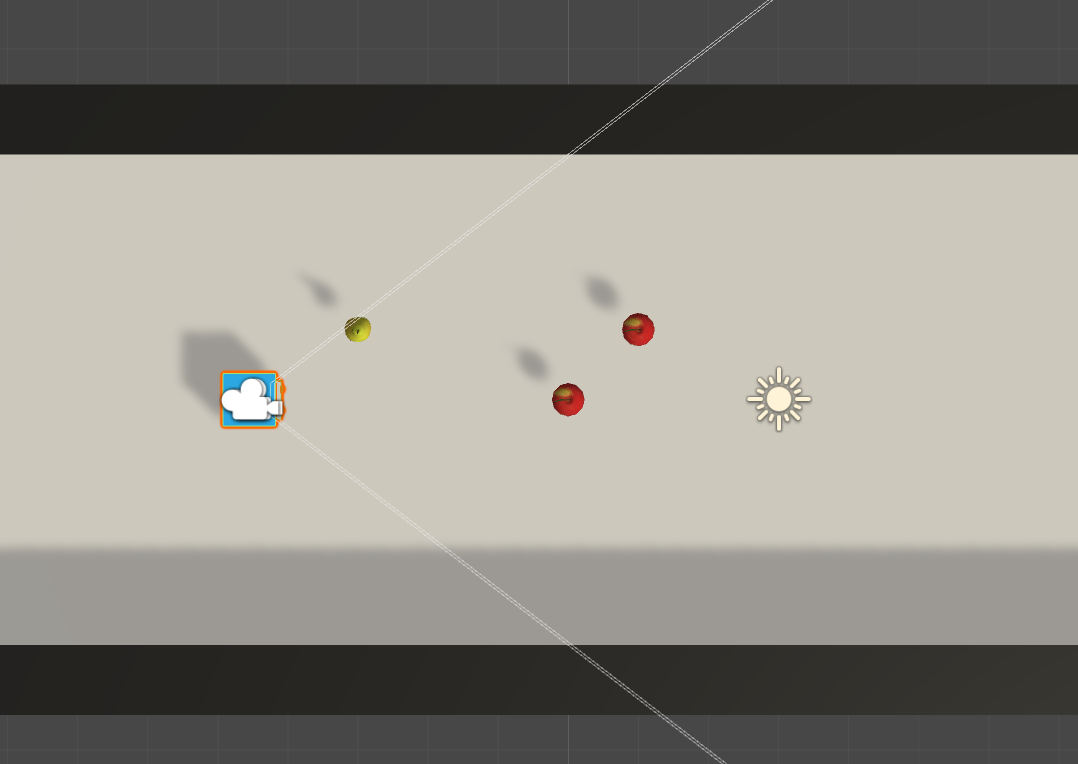
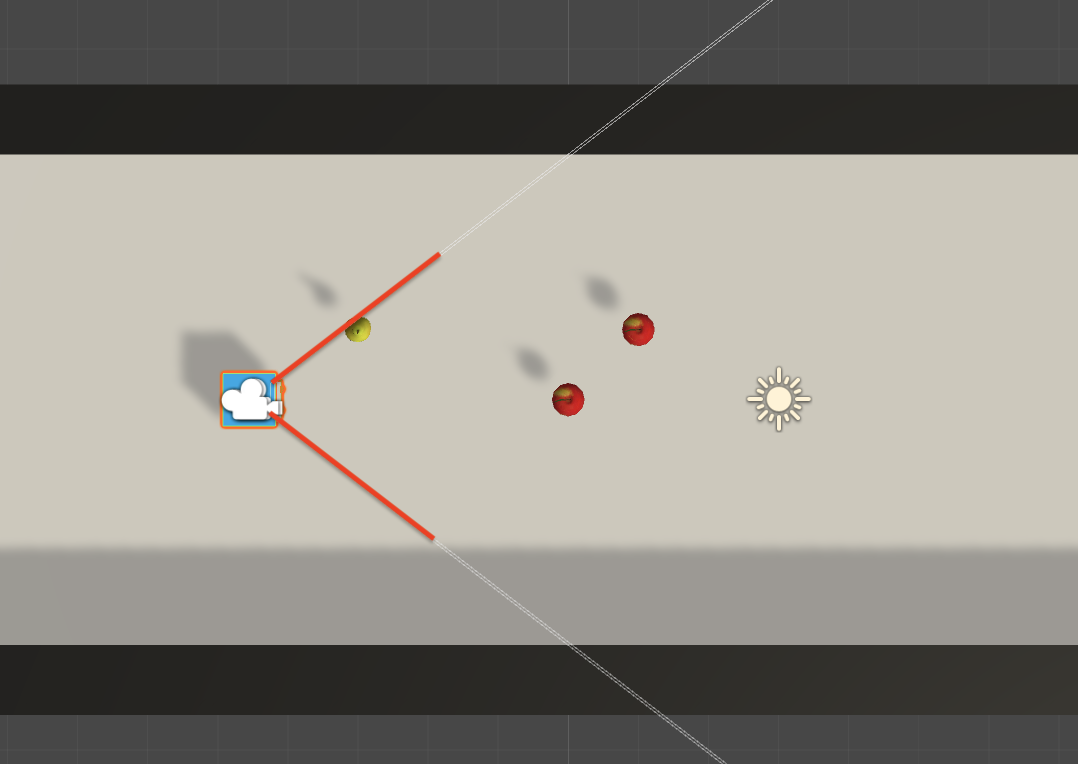
update

diff --git a/test.html b/test.html
@@ -24,8 +24,9 @@
 		<p>
 		注意点:<br>
 		1. 環境にはかならずりんごと梨が2つずつある。<br>
-		2. エージェントは視界の内側しか観測できない 。<br>
-		3. エージェントはエピソードの開始時に、りんごと梨がどこにあるか知らない。
+		2. エージェントの初期位置は、エージェントの意図と関係なくランダムに決まります。<br>
+		3. エージェントは視界の内側しか観測できない 。<br>
+		4. エージェントはエピソードの開始時に、りんごと梨がどこにあるか知らない。
 		</p>
 		<a href="https://fuku5.github.io/enquete-pages/", target="_blank">最初の説明をみる</a>
 	</body>

diff --git a/README.md b/README.md
@@ -3,6 +3,9 @@
 # 設定
 - 環境にはつねに、りんご2つ、梨2つとエージェントが存在します。
 
+- りんご、梨、エージェントは毎エピソードランダムに出現します。
+  - エージェントはどこに出現するか選べません。
+
 ![環境全体](imgs/whole.png) <br>
 
 - エージェントは、白い枠に黒い点が二つ付いている方が前です。
